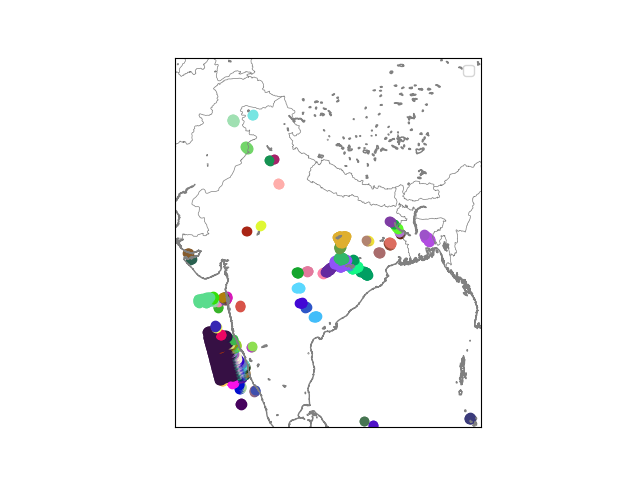
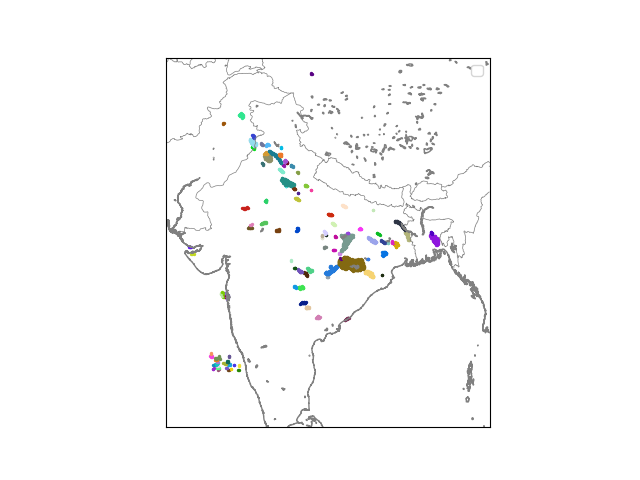
Added methods to convert the hotspot data to JSON format for visualization purposes

diff --git a/hotspot.py b/hotspot.py
@@ -102,13 +102,35 @@ class Hotspot:
 		for index in range(len(xi)):
 			color_val = modified_labels[index]
 			if color_val != -1:
-				m.scatter(xi[index], yi[index], color=colors[color_val])
+				m.scatter(xi[index], yi[index], color=colors[color_val], s=2)
 		plt.legend()
 		plt.savefig("foo.png")
 
+	def X_to_json(self, X, labels):
+		# Excluding -1 values
+		total_labels = len(np.unique(labels)) - 1
+
+		lat_lon_mapping = dict()
+		for index in range(len(X)):
+			if labels[index] != -1:
+				try:
+					lat_lon_mapping[labels[index]] += [str(X[index][0]) + ", " + str(X[index][1])]
+				except:
+					lat_lon_mapping[labels[index]] = [str(X[index][0]) + ", " + str(X[index][1])]
+
+		return list(lat_lon_mapping.values())
+
+	def heatmap_json(self, X, wt):
+		x_wt = list()
+		for index in range(len(X)):
+			x_arr = [X[index][0], X[index][1], wt[index]]
+			x_wt.append(x_arr)
+
+		return x_wt
+
 if __name__ == '__main__':
 	obj = Hotspot()
-	df = obj.convert_and_save_nc("./no2/S5P_OFFL_L2__NO2____20191203T064154_20191203T082324_11079_01_010302_20191209T092015.nc", "PRODUCT", "data.csv", "nitrogendioxide_tropospheric_column_precision")
-	df = obj.filter_percentile(df, "nitrogendioxide_tropospheric_column_precision")
-	X, wt, clustering, labels = obj.clustering_dbscan(df, "nitrogendioxide_tropospheric_column_precision")
+	df = obj.convert_and_save_nc("./no2/S5P_OFFL_L2__NO2____20191203T064154_20191203T082324_11079_01_010302_20191209T092015.nc", "PRODUCT", "data_no2.csv", "nitrogendioxide_tropospheric_column")
+	df = obj.filter_percentile(df, "nitrogendioxide_tropospheric_column")
+	X, wt, clustering, labels = obj.clustering_dbscan(df, "nitrogendioxide_tropospheric_column")
 	obj.plot_clustering_dbscan(X, wt, clustering, labels)
